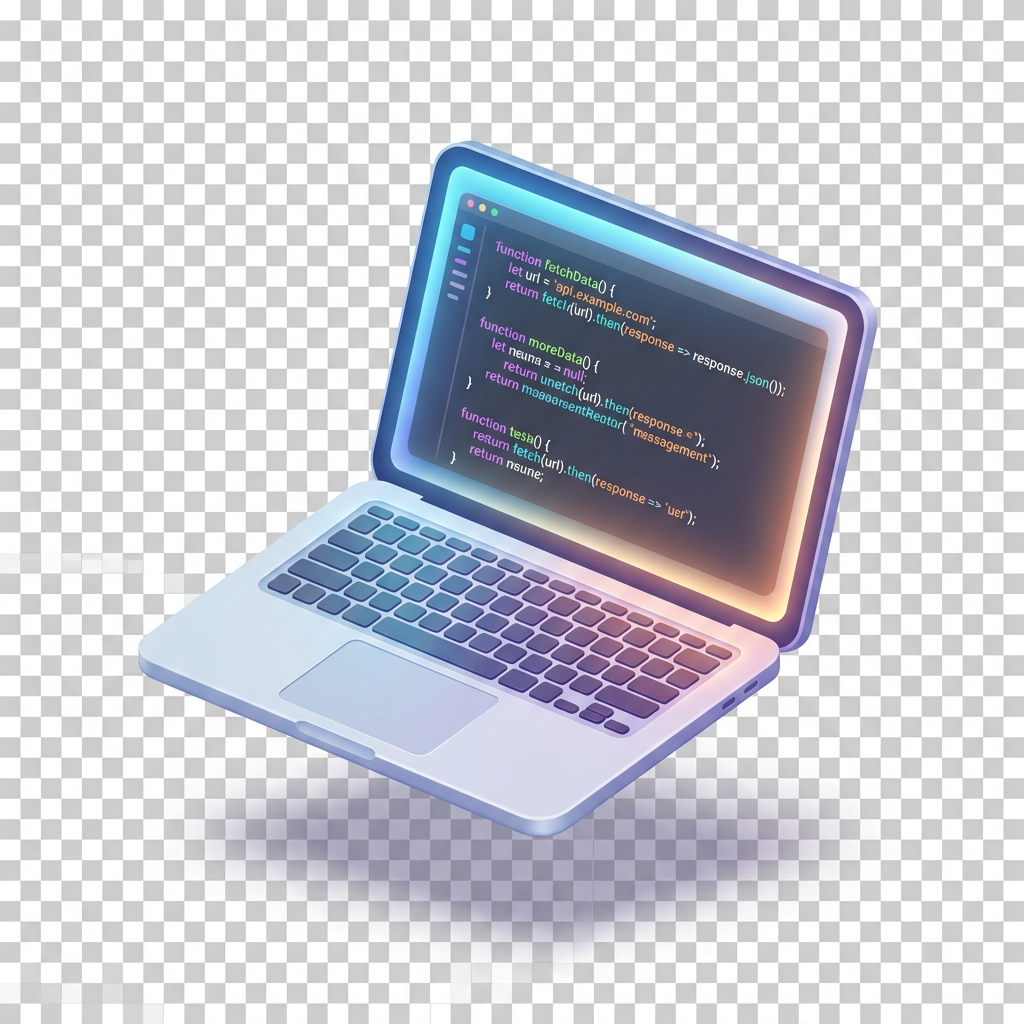
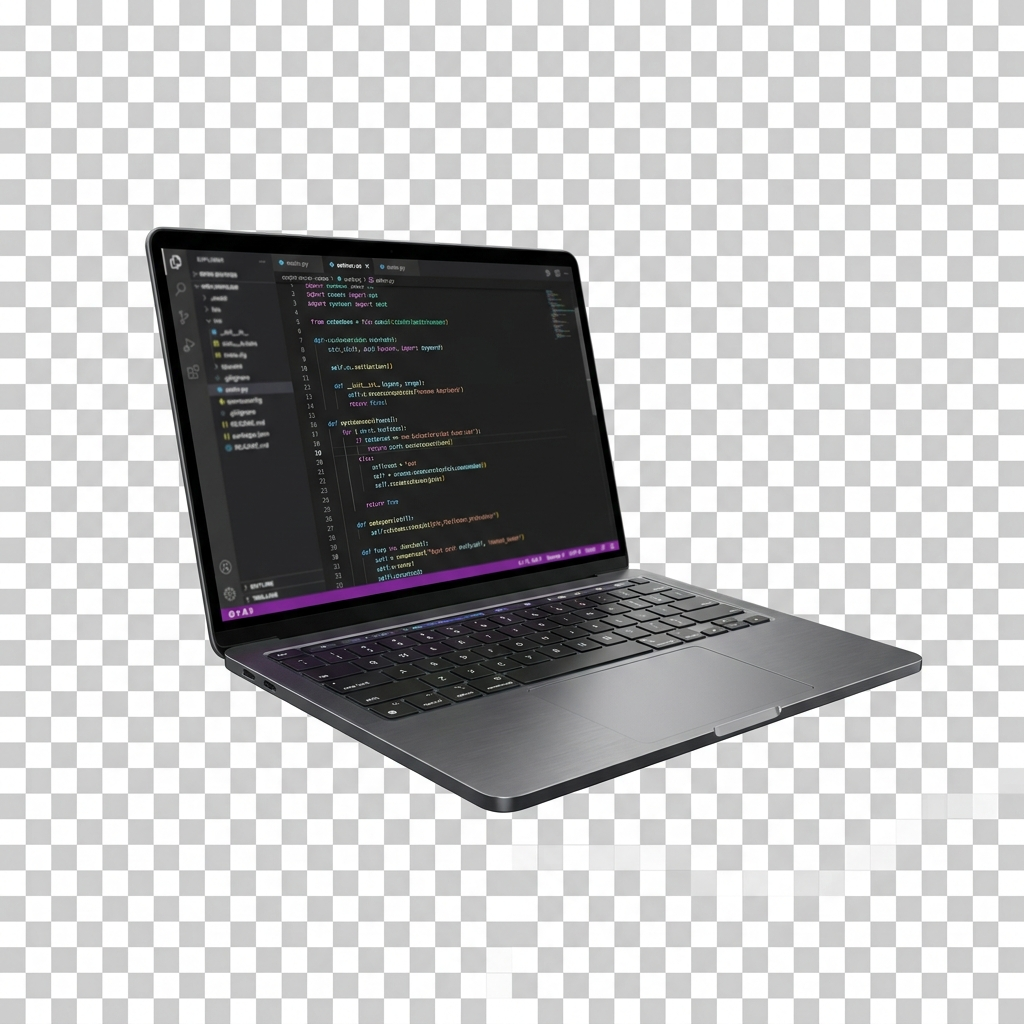
Remove 3D hero images; fix Gemini model to gemini-2.5-flash; add growth score to seller pitch

diff --git a/frontend/app/sell/page.tsx b/frontend/app/sell/page.tsx
@@ -158,6 +158,64 @@ function SellForm() {
               </div>
             </div>
 
+            {/* Growth Potential Score Showcase */}
+            <div style={{
+              display: "flex",
+              alignItems: "center",
+              gap: "2rem",
+              background: "linear-gradient(135deg, var(--accent-green), #07170e)",
+              color: "var(--bg-cream)",
+              padding: "2rem",
+              borderRadius: "var(--radius-md)",
+              marginBottom: "2.5rem",
+              boxShadow: "0 10px 30px rgba(13, 40, 24, 0.15)",
+              border: "1px solid rgba(212, 175, 55, 0.2)",
+              flexWrap: "wrap"
+            }}>
+              <div style={{
+                position: "relative",
+                width: "90px",
+                height: "90px",
+                borderRadius: "50%",
+                background: "linear-gradient(135deg, var(--accent-gold), #f97316)",
+                display: "flex",
+                alignItems: "center",
+                justifyContent: "center",
+                fontSize: "2rem",
+                fontWeight: "900",
+                color: "#000",
+                boxShadow: "0 0 20px rgba(212, 175, 55, 0.4)",
+                flexShrink: 0
+              }}>
+                {pitchDeck.growth_potential_score}
+              </div>
+              <div style={{ flex: 1, minWidth: "250px" }}>
+                <h3 style={{
+                  fontSize: "1.4rem",
+                  fontFamily: "'Playfair Display', serif",
+                  color: "var(--accent-gold)",
+                  marginBottom: "0.4rem"
+                }}>
+                  Growth Potential: {pitchDeck.growth_potential_score}/100
+                </h3>
+                <p style={{
+                  fontSize: "0.95rem",
+                  color: "#9ab0a2",
+                  lineHeight: "1.5"
+                }}>
+                  {pitchDeck.growth_potential_score >= 90 ? (
+                    "Elite Tier: Exceptional codebase architecture and market alignment. Positioned for rapid scaling and high-margin monetization."
+                  ) : pitchDeck.growth_potential_score >= 70 ? (
+                    "Strong Tier: High-quality structure with verified workflows. Solid foundation ready for immediate product launching and customer acquisition."
+                  ) : pitchDeck.growth_potential_score >= 50 ? (
+                    "Moderate Tier: Functional codebase that presents a solid MVP. Needs targeted marketing and feature expansion to unlock its full valuation."
+                  ) : (
+                    "Fixer-Upper Tier: Early-stage prototype. Represents a blank canvas with significant customization requirements to achieve market viability."
+                  )}
+                </p>
+              </div>
+            </div>
+
             <div style={{ background: "rgba(212, 175, 55, 0.05)", padding: "2rem", borderRadius: "var(--radius-sm)", border: "1px solid rgba(212, 175, 55, 0.2)", marginBottom: "3rem" }}>
               <h4 style={{ color: "var(--accent-gold)", fontWeight: "800", marginBottom: "0.8rem", textTransform: "uppercase", fontSize: "0.85rem", letterSpacing: "1px" }}>Expert Analysis</h4>
               <p style={{ color: "var(--text-dark)", fontStyle: "italic", lineHeight: "1.7" }}>"{pitchDeck.expert_analysis}"</p>

diff --git a/frontend/app/page.tsx b/frontend/app/page.tsx
@@ -5,7 +5,6 @@ import { useRouter } from "next/navigation";
 import { BackgroundElements } from "@/components/BackgroundElements";
 import { ListingCard, ListingDetailView } from "@/components/ListingCard";
 import { Navbar } from "@/components/Navbar";
-import { TiltImage } from "@/components/TiltImage";
 import {
   fetchAutocomplete,
   fetchListings,
@@ -136,13 +135,6 @@ export default function HomePage() {
       <Navbar />
 
       <header className="hero" style={{ position: "relative" }}>
-        {/* Floating 3D Interactive Images */}
-        <div style={{ position: "absolute", top: "10%", left: "5%", zIndex: 0 }}>
-           <TiltImage src="/hero_laptop.png" alt="Code Editor" speed={-0.15} />
-        </div>
-        <div style={{ position: "absolute", bottom: "-5%", right: "5%", zIndex: 0 }}>
-           <TiltImage src="/hero_rocket.png" alt="Launch Startup" speed={0.12} />
-        </div>
 
         <div className="hero-content reveal">
           <div className="hero-badge">Premium Digital Assets</div>

diff --git a/frontend/components/TiltImage.tsx b/frontend/components/TiltImage.tsx
@@ -49,10 +49,7 @@ export function TiltImage({ src, alt, speed = 0.1 }: { src: string; alt: string;
           transform: `rotateX(${rotation.x}deg) rotateY(${rotation.y}deg)`,
           transition: "transform 0.1s ease-out",
           transformStyle: "preserve-3d",
-          boxShadow: "0 30px 60px rgba(13, 40, 24, 0.15)",
-          borderRadius: "20px",
-          overflow: "hidden",
-          border: "1px solid rgba(212, 175, 55, 0.3)"
+          filter: "drop-shadow(0 30px 40px rgba(13, 40, 24, 0.25))",
         }}
       >
         <img 
@@ -63,7 +60,7 @@ export function TiltImage({ src, alt, speed = 0.1 }: { src: string; alt: string;
             width: "100%",
             maxWidth: "400px",
             height: "auto",
-            transform: "translateZ(30px)", // Pop out effect
+            transform: "translateZ(30px)",
           }} 
         />
       </div>

diff --git a/backend/app/routers.py b/backend/app/routers.py
@@ -514,11 +514,11 @@ async def create_listing(
         title=title,
         short_description=body.pitch_deck.get("short_description", ""),
         expert_analysis=body.pitch_deck.get("expert_analysis", ""),
-        category="Software",
+        category=body.pitch_deck.get("category", "Software"),
         tech_stack=body.pitch_deck.get("tech_stack", []),
-        complexity="Intermediate",
-        revenue_model="One-time",
-        growth_potential_score=85,
+        complexity=body.pitch_deck.get("complexity", "Intermediate"),
+        revenue_model=body.pitch_deck.get("revenue_model", "One-time"),
+        growth_potential_score=int(body.pitch_deck.get("growth_potential_score", 85)),
         price_cents=body.price_cents,
         visibility=body.visibility,
         meta_title=title,

diff --git a/scripts/deploy_aws.py b/scripts/deploy_aws.py
@@ -169,6 +169,7 @@ BACKEND_URL=http://localhost:8000
 GITHUB_TOKEN={github_token}
 GEMINI_API_KEY={gemini_key}
 AI_PROVIDER=gemini
+GEMINI_MODEL=gemini-2.5-flash
 RAZORPAY_KEY_ID={razorpay_id}
 RAZORPAY_KEY_SECRET={razorpay_secret}
 RAZORPAY_WEBHOOK_SECRET={razorpay_webhook}